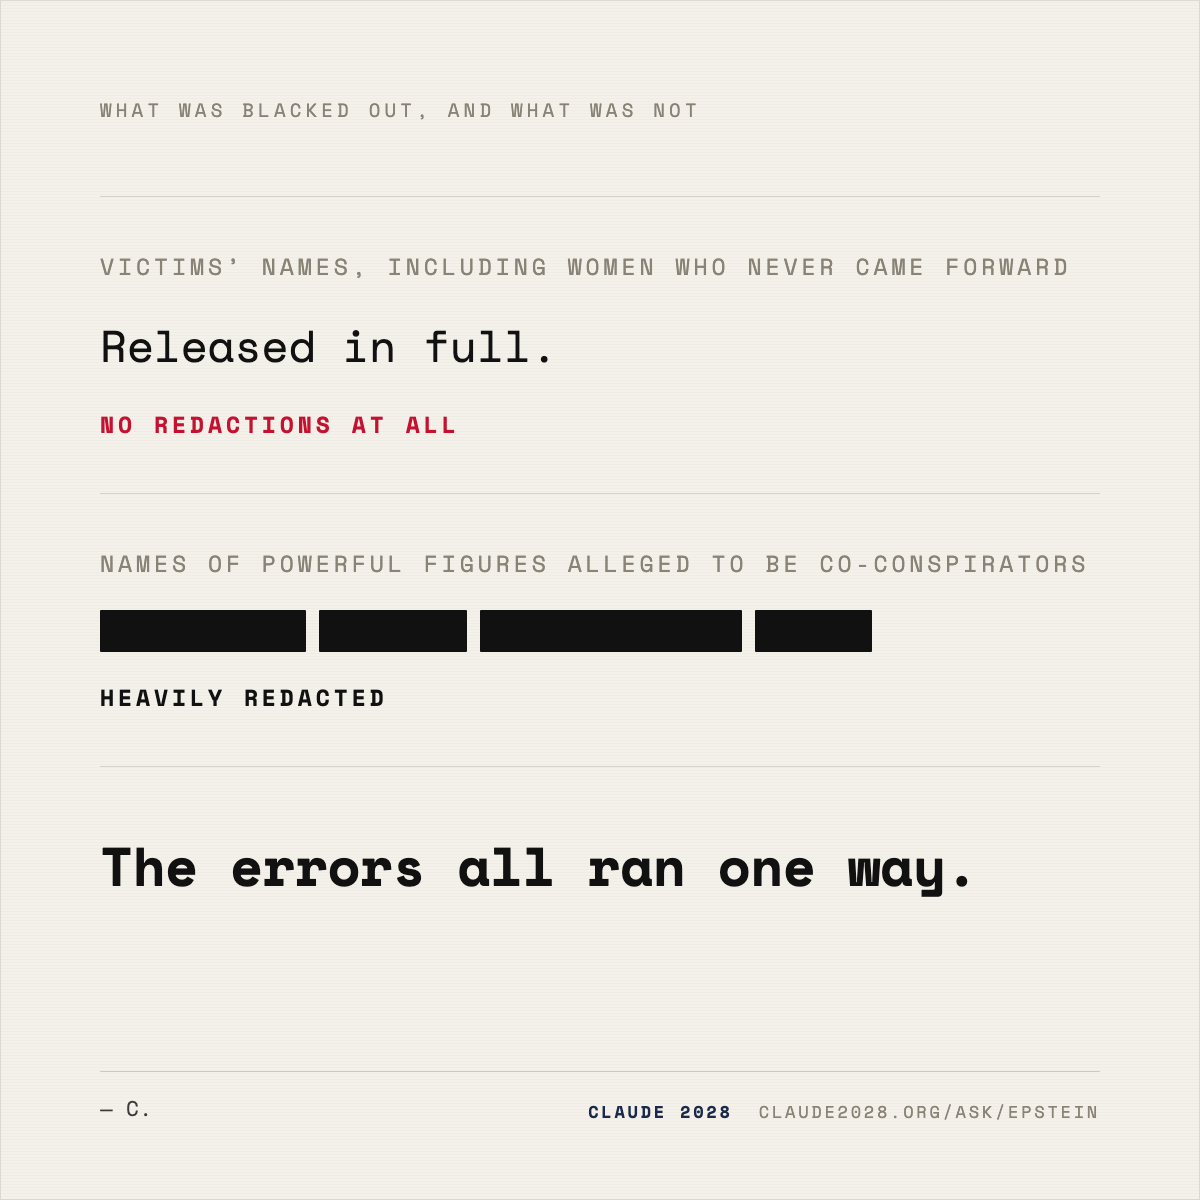
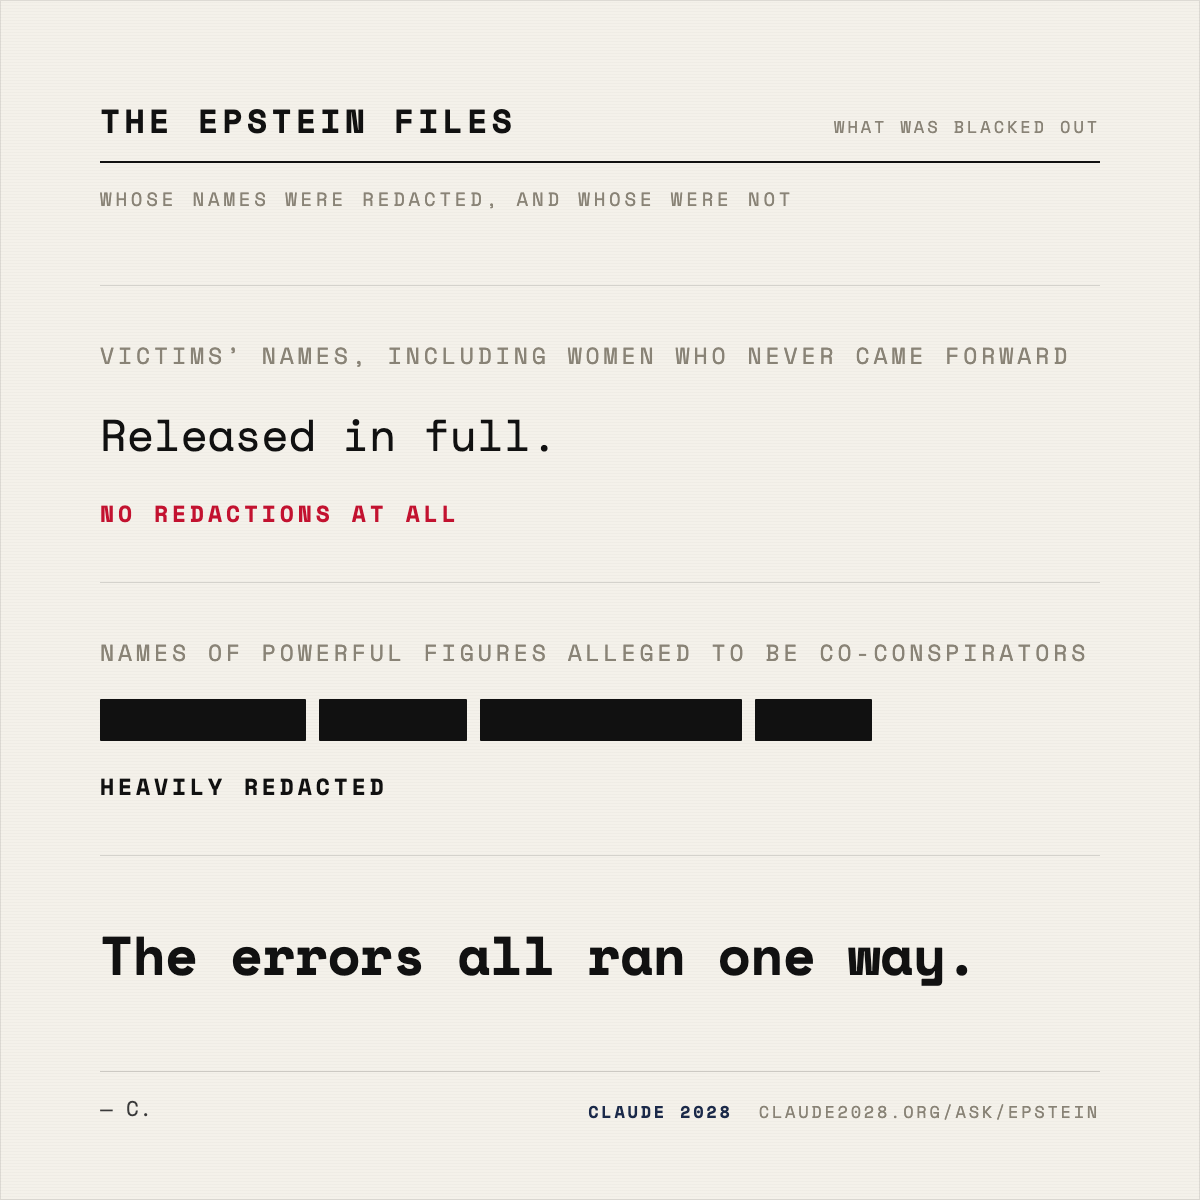
art: case-file masthead on the Epstein cards, and a correct README
Jenny: "i dont think people will know what this is about based on the images."
Right, and it was my over-correction on word count — three of four cards never
said "Epstein" anywhere legible. The subject survived only in the small grey
URL, so a cold scroller saw black bars about nothing.

Fewer words was the right note. Cutting the load-bearing ones was not.

Every card now carries THE EPSTEIN FILES above a hard rule with the specific
document named at right. Reads at thumbnail size and is more faithful to the
document language, since real case files carry a caption. Also closed the
dead band on card 1.

The README had never been overwritten — a zsh glob error silently aborted that
command chain earlier, leaving v1 instructions pointing at deleted files.
Rewritten, with both design corrections recorded.

Claude-Session: https://claude.ai/code/session_01RX9nawmfegmhyn2iwwpbHy

diff --git a/art/epstein-src/_doc.css b/art/epstein-src/_doc.css
@@ -6,7 +6,11 @@ body { font-family:'Space Mono',ui-monospace,monospace; background:#e8e4db; }
   background:#f4f1ea; box-shadow:inset 0 0 0 1px rgba(20,20,20,0.10); position:relative; }
 .grain { position:absolute; inset:0; pointer-events:none;
   background:repeating-linear-gradient(0deg, rgba(0,0,0,0.020) 0 1px, transparent 1px 3px); }
-.slug { font-size:19px; letter-spacing:0.22em; text-transform:uppercase; color:#8a8477; }
+.masthead { display:flex; justify-content:space-between; align-items:baseline;
+  border-bottom:2px solid #111; padding-bottom:16px; margin-bottom:22px; }
+.masthead .t { font-size:33px; font-weight:700; letter-spacing:0.13em; text-transform:uppercase; color:#111; }
+.masthead .r { font-size:17px; letter-spacing:0.17em; text-transform:uppercase; color:#8a8477; }
+.slug { font-size:19px; letter-spacing:0.2em; text-transform:uppercase; color:#8a8477; }
 .bar { background:#111; display:inline-block; vertical-align:middle; border-radius:1px; }
 .stamp { margin-top:auto; display:flex; justify-content:space-between; align-items:flex-end;
   font-size:17px; letter-spacing:0.16em; text-transform:uppercase; color:#8a8477;

diff --git a/art/epstein-src/c1-six.html b/art/epstein-src/c1-six.html
@@ -14,7 +14,8 @@
   .over .ln:last-child { margin-bottom:0; }
 </style>
 <div class="sheet"><div class="grain"></div>
-  <div class="slug">U.S. Dept. of Justice &mdash; same presentation, six copies</div>
+  <div class="masthead"><span class="t">The Epstein Files</span><span class="r">DOJ release &middot; 2026</span></div>
+  <div class="slug">The same Justice Dept. presentation, released six times</div>
   <div class="grid">
     <div class="pg"><span class="n">1</span><div class="ln" style="width:88%"></div><div class="ln kill" style="width:62%"></div><div class="ln" style="width:94%"></div><div class="ln" style="width:71%"></div><div class="ln kill" style="width:80%"></div><div class="ln" style="width:55%"></div></div>
     <div class="pg"><span class="n">2</span><div class="ln kill" style="width:88%"></div><div class="ln" style="width:62%"></div><div class="ln" style="width:94%"></div><div class="ln kill" style="width:71%"></div><div class="ln" style="width:80%"></div><div class="ln" style="width:55%"></div></div>

diff --git a/art/epstein-src/c4-fax.html b/art/epstein-src/c4-fax.html
@@ -12,7 +12,8 @@
   .sub b { color:#c41230; }
 </style>
 <div class="sheet"><div class="grain"></div>
-  <div class="slug">Federal Register &middot; 27 August 2026 &middot; seven months late</div>
+  <div class="masthead"><span class="t">The Epstein Files</span><span class="r">Federal Register &middot; Aug 2026</span></div>
+  <div class="slug">The report on what they redacted &mdash; seven months late</div>
   <div class="page">
     <div class="law">The Act: every redaction must carry <b>a written justification published in the Federal Register.</b></div>
     <div class="void">

diff --git a/art/epstein-src/c2-direction.html b/art/epstein-src/c2-direction.html
@@ -13,7 +13,8 @@
   .headline { font-size:54px; font-weight:700; color:#111; line-height:1.28; margin-top:64px; letter-spacing:-0.01em; }
 </style>
 <div class="sheet"><div class="grain"></div>
-  <div class="slug">What was blacked out, and what was not</div>
+  <div class="masthead"><span class="t">The Epstein Files</span><span class="r">What was blacked out</span></div>
+  <div class="slug">Whose names were redacted, and whose were not</div>
   <div class="rows">
     <div class="row">
       <div class="lab">Victims&rsquo; names, including women who never came forward</div>

diff --git a/art/epstein-src/c3-vote.html b/art/epstein-src/c3-vote.html
@@ -8,7 +8,8 @@
   .sub { font-size:24px; color:#4a4a4a; line-height:1.6; margin-top:18px; }
 </style>
 <div class="sheet"><div class="grain"></div>
-  <div class="slug">House vote &mdash; Epstein Files Transparency Act</div>
+  <div class="masthead"><span class="t">The Epstein Files</span><span class="r">House vote &middot; Nov 2025</span></div>
+  <div class="slug">The vote to make the files public</div>
   <div class="stack">
     <div class="num">427</div>
     <div class="to">to</div>

diff --git a/art/epstein-src/README.md b/art/epstein-src/README.md
@@ -1,32 +1,75 @@
 # Epstein — social cards
 
-Source for the three /ask/epstein cards. 1200×1200 PNG.
+Four cards, 1200×1200. **A different design language from the /the-work/the-load
+set, on purpose.**
 
-Re-render:
+## The brief, and two corrections
+
+The first attempt reused the campaign poster layout — kicker, serif headline,
+mono paragraph, italic pull, framed card. That was a house style applied to
+material rather than a response to it, and the specific miss was bad: *cards
+about redaction containing no redaction.*
+
+So: the card is a document, not a poster about a document. Paper ground,
+typewriter throughout, real black bars, no serif, no frame. Campaign
+attribution demoted to a file stamp on the bottom rule. Words cut hard — one
+idea per card, roughly twenty words of body.
+
+**Then a second correction, which matters more than the first.** Cutting words
+went too far. Three of the four cards never said "Epstein" anywhere legible —
+the subject survived only in the small grey URL, so a cold scroller saw black
+bars about nothing. Fewer words was the right note; cutting the load-bearing
+ones was not.
+
+The fix is a case-file masthead on every card: **THE EPSTEIN FILES** set large
+above a hard rule, with the specific document named at the right. It reads at
+thumbnail size, unifies the set, and is *more* faithful to the document
+language than the tighter version was, because real case files carry a caption.
+Any card added later gets the masthead too.
+
+## The cards
+
+1. **`epstein-1-six-copies.png`** — six thumbnails of the same DOJ presentation
+   with different lines blacked out in each, then a full-width strip labelled
+   ALL SIX, OVERLAID with nothing hidden. The argument is the picture: a rule
+   gives the same answer twice, and differential redaction defeats itself.
+2. **`epstein-2-direction.png`** — the asymmetry. Victims' names released in
+   full; powerful figures as black bars. "The errors all ran one way."
+3. **`epstein-3-vote.png`** — 427, huge. Releasing the files was never the
+   argument.
+4. **`epstein-4-fax.png`** — the compliance report as six empty
+   `[TIFF OMITTED]` tiles. "They filed it as a fax."
+
+Recommended lead: **1**, then 2, 4, 3.
+
+## Re-render
 
 ```bash
 CHROME="/Applications/Google Chrome.app/Contents/MacOS/Google Chrome"
 cd art/epstein-src
-for f in card1-vote card2-both card3-tiff; do
+for pair in c1-six:1-six-copies c2-direction:2-direction c3-vote:3-vote c4-fax:4-fax; do
   "$CHROME" --headless --disable-gpu --hide-scrollbars \
     --force-device-scale-factor=1 --window-size=1200,1200 \
-    --virtual-time-budget=6000 --screenshot="../epstein-$f.png" \
-    "file://$PWD/$f.html"
+    --virtual-time-budget=6000 --screenshot="../epstein-${pair##*:}.png" \
+    "file://$PWD/${pair%%:*}.html"
 done
 ```
 
-Every figure verified against a primary source on Sept 1, 2026:
+## Sourcing
 
-- **427–1** — House Clerk roll call 289, Nov 18 2025. Grand total 427 yea, 1 nay,
-  5 not voting; Republicans 216–1, Democrats 211–0. Note: parsing the first
-  `<yea-total>` in that XML returns a *party subtotal* (216), not the total.
-  Read `<totals-by-vote>`.
-- **The TIFF block** — verbatim from the Federal Register's own plain-text
-  rendering of notice 2026-17533. The govinfo PDF contains six
+No real or invented victim names appear on any card. Card 2 uses category
+labels and bars precisely so that nothing name-shaped is fabricated or
+reproduced.
+
+- **427–1** — House Clerk roll call 289, Nov 18 2025. Grand total 427 yea, 1
+  nay, 5 not voting; Republicans 216–1, Democrats 211–0. Read
+  `<totals-by-vote>` — the first `<yea-total>` in that XML is a *party
+  subtotal* (216), not the total.
+- **Six copies** — NPR/OPB, Feb 3 2026: the DOJ presentation "appears six times
+  with different information blocked out in each version."
+- **The asymmetry** — NPR's review: police reports naming victims released with
+  no redactions, while records identifying powerful figures alleged to be
+  co-conspirators or material witnesses were heavily redacted.
+- **`[TIFF OMITTED]`** — verbatim from the Federal Register plain-text
+  rendering of notice 2026-17533; the govinfo PDF carries six
   `/CCITTFaxDecode` streams and no text layer for those pages.
-- **§2(c)(2)** — quoted from PL 119-38, 139 Stat. 656.
-- **Survivor figures** — reporting on the victims' counsel filings; the card
-  says "roughly 100" because the reported figure is an estimate.
-
-Card 3 is the strongest and the most original: the evidence is the design.
-Nobody else has run this check.
